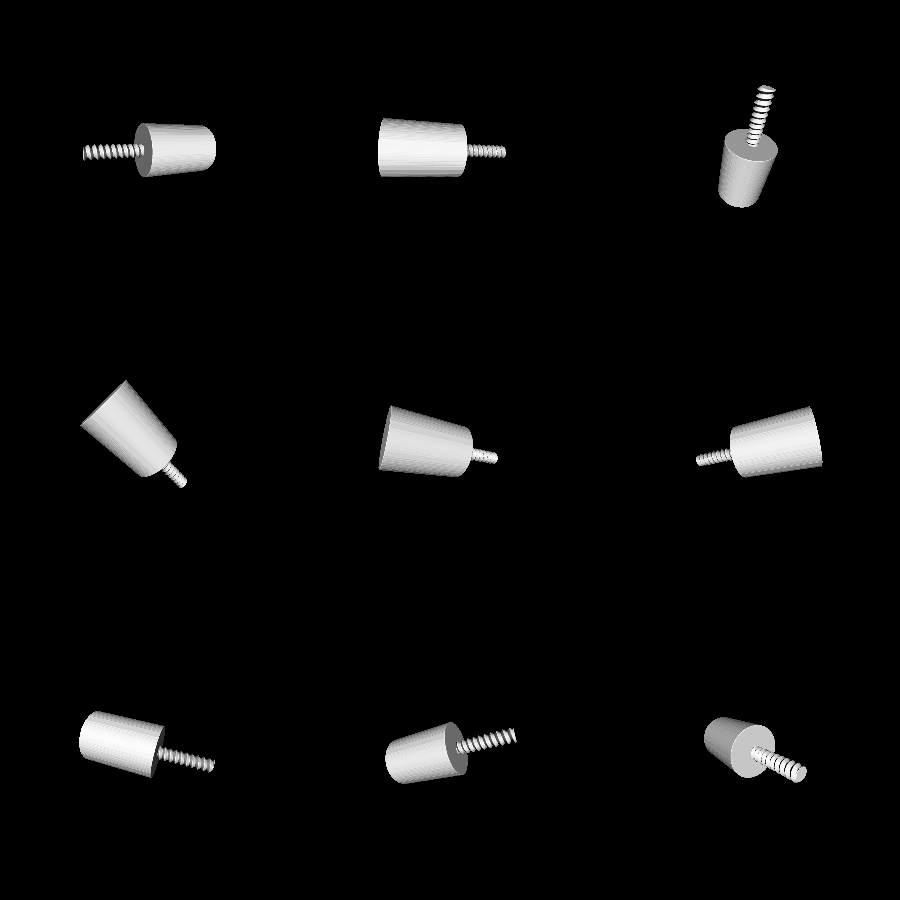
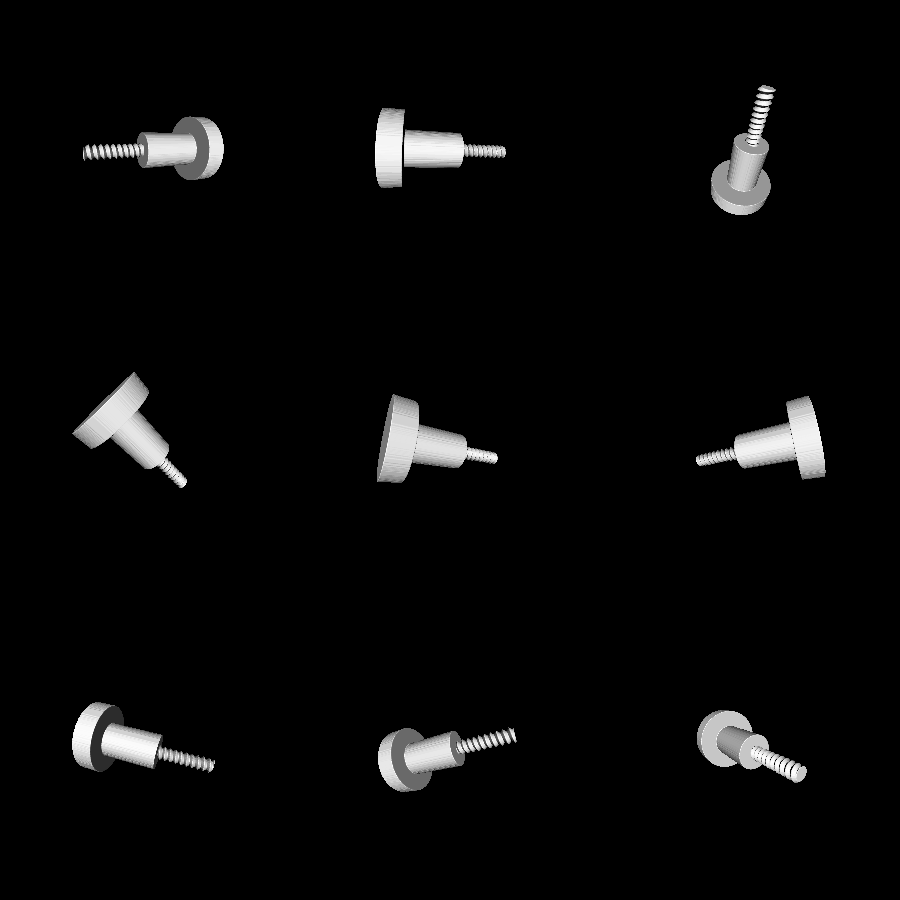
fancier knob

diff --git a/examples/usable/drawer/knob.go b/examples/usable/drawer/knob.go
@@ -8,8 +8,12 @@ import (
 func CreateKnob() model3d.Solid {
 	return model3d.StackedSolid{
 		&model3d.CylinderSolid{
-			P2:     model3d.Coord3D{Z: KnobLength},
-			Radius: KnobRadius,
+			P2:     model3d.Coord3D{Z: KnobBaseLength},
+			Radius: KnobBaseRadius,
+		},
+		&model3d.CylinderSolid{
+			P2:     model3d.Coord3D{Z: KnobPoleLength},
+			Radius: KnobPoleRadius,
 		},
 		&toolbox3d.ScrewSolid{
 			P2:         model3d.Coord3D{Z: DrawerThickness + KnobNutThickness},
@@ -23,7 +27,7 @@ func CreateKnobNut() model3d.Solid {
 	return &model3d.SubtractedSolid{
 		Positive: &model3d.CylinderSolid{
 			P2:     model3d.Coord3D{Z: KnobNutThickness},
-			Radius: KnobNutThickness,
+			Radius: KnobNutRadius,
 		},
 		Negative: &toolbox3d.ScrewSolid{
 			P1:         model3d.Coord3D{Z: -1e-5},

diff --git a/examples/usable/drawer/main.go b/examples/usable/drawer/main.go
@@ -32,12 +32,15 @@ const (
 
 	RidgeDepth = 0.2
 
-	KnobRadius       = 0.3
-	KnobLength       = 0.8
+	KnobBaseRadius = 0.4
+	KnobBaseLength = 0.2
+	KnobPoleRadius = 0.2
+	KnobPoleLength = 0.6
+
 	KnobScrewRadius  = 0.08
 	KnobScrewGroove  = 0.03
 	KnobScrewSlack   = 0.02
-	KnobNutRadius    = 0.4
+	KnobNutRadius    = 0.2
 	KnobNutThickness = 0.2
 )
 
@@ -66,8 +69,8 @@ func main() {
 
 	knobSqueeze := &toolbox3d.AxisSqueeze{
 		Axis:  toolbox3d.AxisZ,
-		Min:   KnobLength * 0.1,
-		Max:   KnobLength * 0.9,
+		Min:   KnobBaseLength + KnobPoleLength*0.1,
+		Max:   KnobBaseLength + KnobPoleLength*0.9,
 		Ratio: 0.1,
 	}
 
